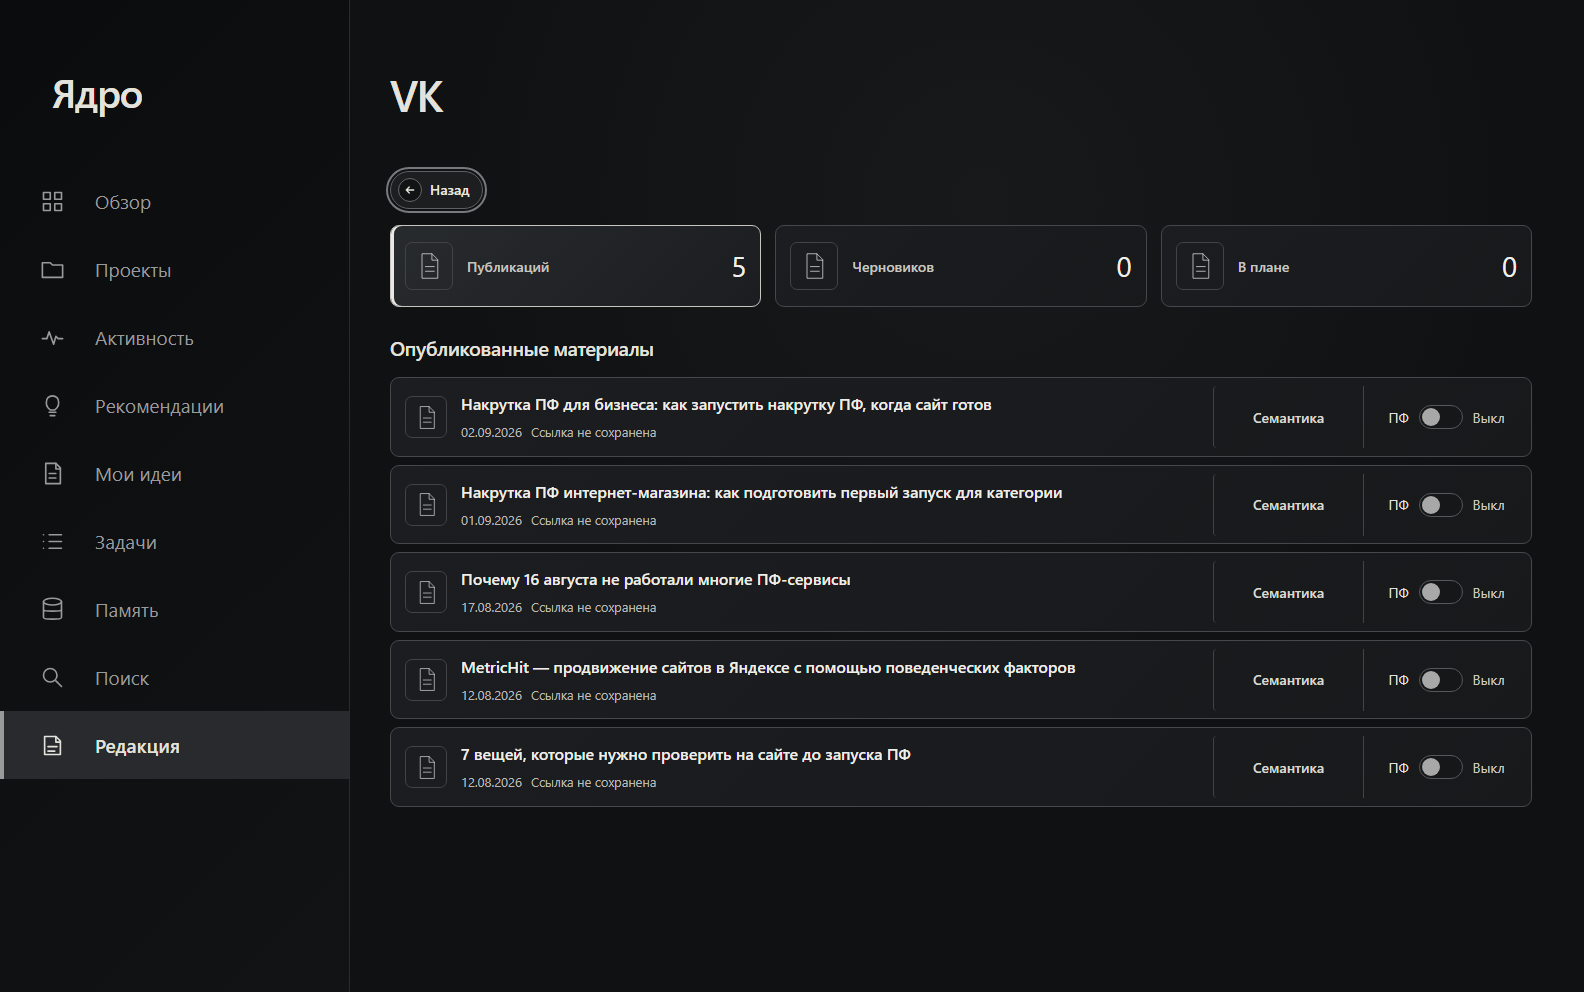
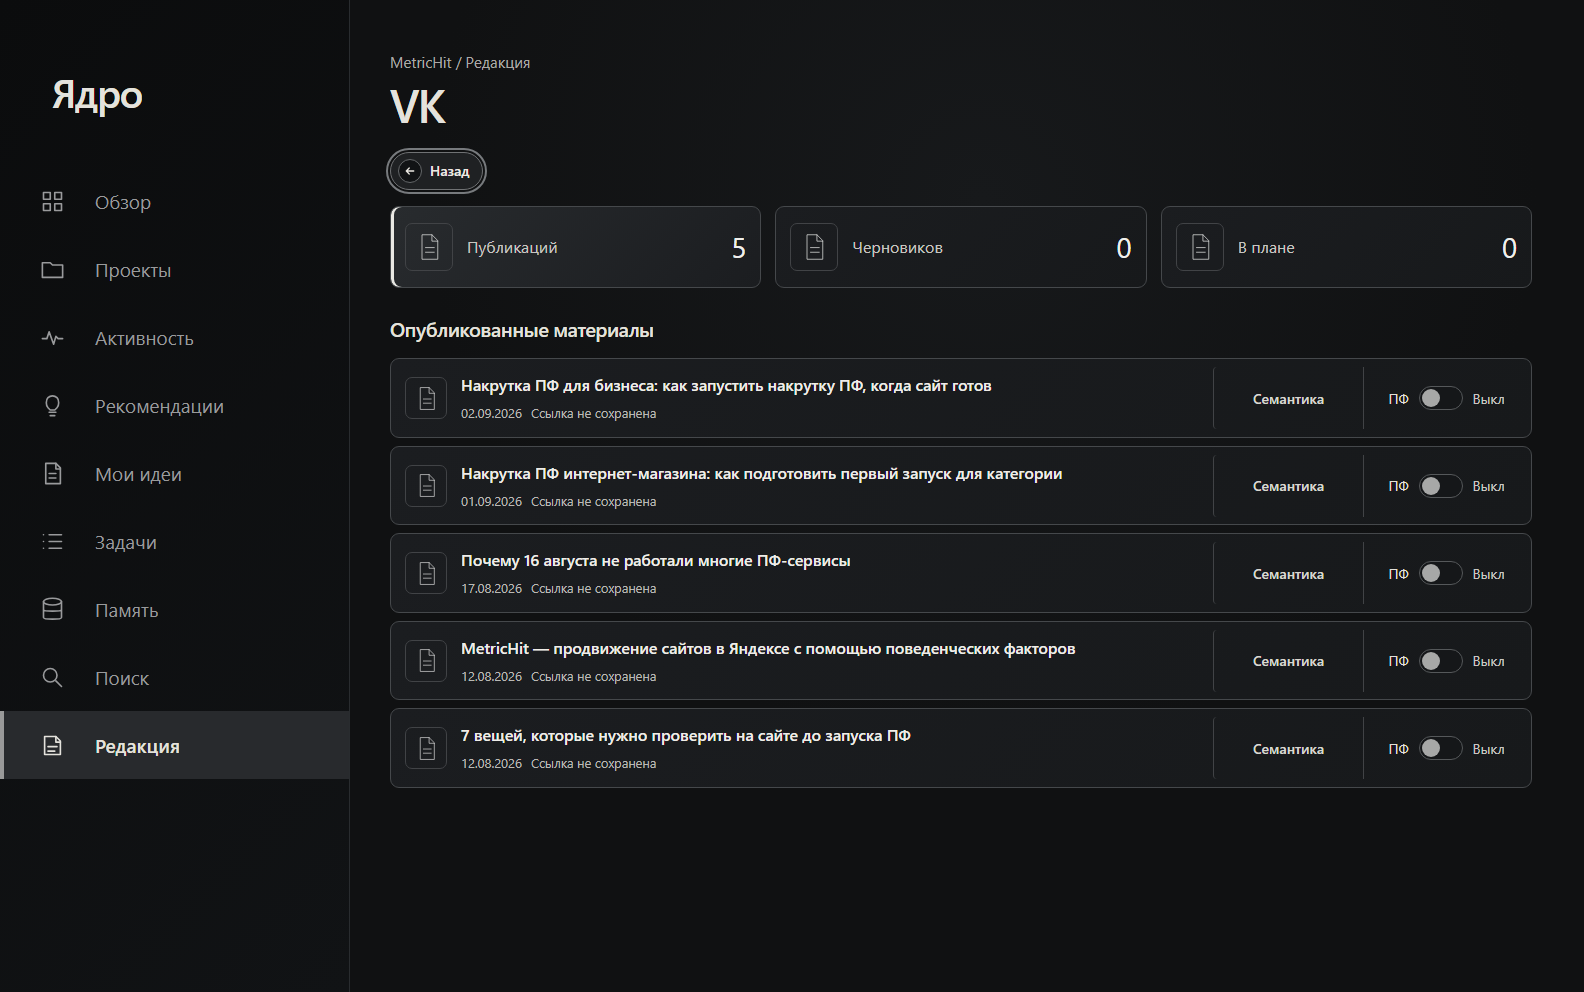
fix: align editorial detail headers

diff --git a/src/metrichit_os/operator_panel_assets/operator-panel.js b/src/metrichit_os/operator_panel_assets/operator-panel.js
@@ -69,7 +69,7 @@ setTimeout(load,0);
   const backButton=onClick=>{const button=document.createElement('button');button.type='button';button.className='editorial-back';button.dataset.testid='editorial-back';button.innerHTML=`${backIcon}<span>Назад</span>`;button.onclick=onClick;return button};
   const modal=trigger=>{const overlay=document.createElement('div');overlay.className='editorial-semantic-modal';overlay.dataset.testid='editorial-semantic-modal';overlay.setAttribute('role','dialog');overlay.setAttribute('aria-modal','true');overlay.setAttribute('aria-labelledby','editorial-semantic-title');const close=()=>{document.removeEventListener('keydown',escape);overlay.remove();document.body.style.overflow='';trigger.focus()};const escape=event=>{if(event.key==='Escape')close()};overlay.innerHTML='<div class="editorial-semantic-dialog"><button type="button" class="editorial-modal-close" aria-label="Закрыть" data-testid="editorial-semantic-close">×</button><h3 id="editorial-semantic-title">Семантика публикации</h3><p data-testid="editorial-semantic-empty">Семантика не сохранена</p><button type="button" class="editorial-copy-all" data-testid="editorial-copy-all" disabled>Скопировать всё</button></div>';overlay.querySelector('[data-testid="editorial-semantic-close"]').onclick=close;overlay.onclick=event=>{if(event.target===overlay)close()};document.addEventListener('keydown',escape);document.body.append(overlay);document.body.style.overflow='hidden';overlay.querySelector('[data-testid="editorial-semantic-close"]').focus()};
   const registry={Telegram:{counts:['17','1','8'],published:posts,drafts,planned},MAX:{counts:['0','0','0'],published:[],drafts:[],planned:[]},VK:{counts:['5','0','0'],published:[['Накрутка ПФ для бизнеса: как запустить накрутку ПФ, когда сайт готов','02.09.2026'],['Накрутка ПФ интернет-магазина: как подготовить первый запуск для категории','01.09.2026'],['Почему 16 августа не работали многие ПФ-сервисы','17.08.2026'],['MetricHit — продвижение сайтов в Яндексе с помощью поведенческих факторов','12.08.2026'],['7 вещей, которые нужно проверить на сайте до запуска ПФ','12.08.2026']],drafts:[],planned:[]},TenChat:{counts:['3','0','0'],published:[['Накрутка ПФ для интернет-магазина: как выбрать стартовую категорию','01.09.2026','https://tenchat.ru/media/6035722-nakrutka-pf-dlya-internetmagazina-kak-vybrat-startovuyu-kategoriyu'],['Накрутка ПФ: почему без неё коммерческий сайт теряет клиентов из Яндекса','Дата не сохранена','https://tenchat.ru/media/6028084-nakrutka-pf-pochemu-bez-neyo-kommercheskiy-sayt-teryayet-kliyentov-iz-yandeksa'],['Накрутка ПФ в Яндексе: как управлять продвижением по запросам, региону и бюджету','30.08.2026','https://tenchat.ru/media/6013324-nakrutka-pf-v-yandekse-kak-upravlyat-prodvizheniyem-po-zaprosam-regionu-i-byudzhetu']],drafts:[],planned:[]},Sostav:{counts:['2','0','0'],published:[['Накрутка ПФ','29.08.2026','https://www.sostav.ru/blogs/293151/104675'],['SEO вывело сайт в ТОП, а продажи не выросли: где ломается воронка','12.08.2026','https://www.sostav.ru/blogs/293151/101025']],drafts:[],planned:[]},Oborot:{counts:['3','0','0'],published:[['Накрутка ПФ для бизнеса: как подготовить сайт к запуску','02.09.2026'],['Накрутка ПФ для интернет-магазина: как выбрать запросы, категории и дневной лимит в Яндексе','01.09.2026','https://oborot.ru/blogs/nakrutka-pf-dlya-internet-magazina-kak-vybrat-zaprosy-kategorii-i-dnevnoj-limit-v-yandekse-i277848.html'],['Накрутка ПФ: как бизнесу управлять поисковым продвижением и бюджетом','29.08.2026','https://oborot.ru/blogs/nakrutka-pf-i277755.html']],drafts:[],planned:[]}};
-  const renderPlatform=name=>{const data=registry[name];if(!data)return;document.body.dataset.editorialState=name.toLowerCase();title.textContent=name;description.hidden=true;let active='published';const renderList=()=>{const isPublished=active==='published',items=data[active];const section=document.createElement('section');section.className='editorial-posts';const heading=document.createElement('h3');heading.textContent=isPublished?'Опубликованные материалы':active==='drafts'?'Черновики':'В плане';section.append(heading);const list=document.createElement('div');list.className='editorial-post-list';if(!items.length){const empty=document.createElement('p');empty.className='overview-empty';empty.textContent=isPublished?'Публикаций пока нет.':active==='drafts'?'Черновиков пока нет.':'Материалов в плане пока нет.';section.append(empty);return section}items.forEach(([post,date,fullUrl],index)=>{const row=document.createElement('article');row.className=`editorial-post-row${isPublished?'':' editorial-post-row-pending'}`;row.dataset.testid=`editorial-post-${isPublished?index:`${active}-${index}`}`;const identity=document.createElement('div');identity.className='editorial-post-identity';const urlParts=fullUrl?`<a class="editorial-short-url" data-testid="editorial-short-url-${index}" href="${fullUrl}" target="_blank" rel="noopener noreferrer">${fullUrl.replace('https://','')}</a><button type="button" class="editorial-url-toggle" data-testid="editorial-url-${index}" aria-expanded="false" aria-controls="editorial-full-url-${index}" aria-label="Показать полный URL">${chevronIcon}</button><button type="button" class="editorial-url-copy" data-testid="editorial-url-copy-${index}" aria-label="Скопировать полный URL">${copyIcon}</button><span class="editorial-url-status" data-testid="editorial-url-status-${index}" aria-live="polite"></span>`:isPublished?'<span class="editorial-url-missing" data-testid="editorial-url-missing">Ссылка не сохранена</span>':'';identity.innerHTML=`<span class="editorial-post-icon">${documentIcon}</span><span><strong>${post}</strong><span class="editorial-post-meta">${date}${urlParts}</span></span>`;let full;if(fullUrl){full=document.createElement('a');full.id=`editorial-full-url-${index}`;full.className='editorial-full-url hidden';full.dataset.testid=`editorial-full-url-${index}`;full.href=fullUrl;full.target='_blank';full.rel='noopener noreferrer';full.textContent=fullUrl;const url=identity.querySelector('.editorial-url-toggle');url.onclick=()=>{const hidden=full.classList.toggle('hidden');url.setAttribute('aria-expanded',String(!hidden));url.classList.toggle('is-expanded',!hidden);url.setAttribute('aria-label',hidden?'Показать полный URL':'Скрыть полный URL')};identity.querySelector('.editorial-url-copy').onclick=async()=>{const status=identity.querySelector('.editorial-url-status');try{await navigator.clipboard.writeText(fullUrl);status.textContent='Скопировано'}catch(error){status.textContent='Не удалось скопировать'}}}const semanticButton=document.createElement('button');semanticButton.type='button';semanticButton.className='editorial-semantic-trigger';semanticButton.dataset.testid=`editorial-semantic-${active}-${index}`;semanticButton.textContent='Семантика';semanticButton.onclick=()=>modal(semanticButton);row.append(identity,semanticButton);if(isPublished){const pf=document.createElement('label');pf.className='editorial-pf';pf.textContent='ПФ';const toggle=document.createElement('input');toggle.type='checkbox';toggle.checked=false;toggle.dataset.testid=`editorial-pf-${index}`;toggle.setAttribute('role','switch');toggle.setAttribute('aria-label',`ПФ для публикации ${post}`);const state=document.createElement('span');state.className='editorial-pf-state';state.textContent='Выкл';toggle.onchange=()=>{state.textContent=toggle.checked?'Вкл':'Выкл'};pf.append(toggle,state);row.append(pf)}if(full)row.append(full);list.append(row)});section.append(list);return section};const crumb=document.createElement('p');crumb.className='editorial-breadcrumb';crumb.textContent='MetricHit / Редакция';const stats=document.createElement('div');stats.className='editorial-stat-grid';const content=document.createElement('div');const setActive=next=>{active=next;for(const button of stats.querySelectorAll('button')){const selected=button.dataset.editorialFilter===active;button.classList.toggle('active',selected);button.setAttribute('aria-pressed',String(selected))}content.replaceChildren(renderList())};[['published','Публикаций'],['drafts','Черновиков'],['planned','В плане']].forEach(([key,label],index)=>{const card=document.createElement('button');card.type='button';card.className='editorial-stat-card';card.dataset.editorialFilter=key;card.dataset.testid=`editorial-filter-${key}`;card.innerHTML=`<span class="editorial-stat-icon">${documentIcon}</span><span class="editorial-stat-label">${label}</span><b class="editorial-stat-value">${data.counts[index]}</b>`;card.onclick=()=>setActive(key);stats.append(card)});screen.replaceChildren(backButton(()=>window.metricHitEditorialBackToPlatforms()),crumb,stats,content);setActive(active)};
+  const renderPlatform=name=>{const data=registry[name];if(!data)return;document.body.dataset.editorialState='telegram';title.textContent=name;description.hidden=true;let active='published';const renderList=()=>{const isPublished=active==='published',items=data[active];const section=document.createElement('section');section.className='editorial-posts';const heading=document.createElement('h3');heading.textContent=isPublished?'Опубликованные материалы':active==='drafts'?'Черновики':'В плане';section.append(heading);const list=document.createElement('div');list.className='editorial-post-list';if(!items.length){const empty=document.createElement('p');empty.className='overview-empty';empty.textContent=isPublished?'Публикаций пока нет.':active==='drafts'?'Черновиков пока нет.':'Материалов в плане пока нет.';section.append(empty);return section}items.forEach(([post,date,fullUrl],index)=>{const row=document.createElement('article');row.className=`editorial-post-row${isPublished?'':' editorial-post-row-pending'}`;row.dataset.testid=`editorial-post-${isPublished?index:`${active}-${index}`}`;const identity=document.createElement('div');identity.className='editorial-post-identity';const urlParts=fullUrl?`<a class="editorial-short-url" data-testid="editorial-short-url-${index}" href="${fullUrl}" target="_blank" rel="noopener noreferrer">${fullUrl.replace('https://','')}</a><button type="button" class="editorial-url-toggle" data-testid="editorial-url-${index}" aria-expanded="false" aria-controls="editorial-full-url-${index}" aria-label="Показать полный URL">${chevronIcon}</button><button type="button" class="editorial-url-copy" data-testid="editorial-url-copy-${index}" aria-label="Скопировать полный URL">${copyIcon}</button><span class="editorial-url-status" data-testid="editorial-url-status-${index}" aria-live="polite"></span>`:isPublished?'<span class="editorial-url-missing" data-testid="editorial-url-missing">Ссылка не сохранена</span>':'';identity.innerHTML=`<span class="editorial-post-icon">${documentIcon}</span><span><strong>${post}</strong><span class="editorial-post-meta">${date}${urlParts}</span></span>`;let full;if(fullUrl){full=document.createElement('a');full.id=`editorial-full-url-${index}`;full.className='editorial-full-url hidden';full.dataset.testid=`editorial-full-url-${index}`;full.href=fullUrl;full.target='_blank';full.rel='noopener noreferrer';full.textContent=fullUrl;const url=identity.querySelector('.editorial-url-toggle');url.onclick=()=>{const hidden=full.classList.toggle('hidden');url.setAttribute('aria-expanded',String(!hidden));url.classList.toggle('is-expanded',!hidden);url.setAttribute('aria-label',hidden?'Показать полный URL':'Скрыть полный URL')};identity.querySelector('.editorial-url-copy').onclick=async()=>{const status=identity.querySelector('.editorial-url-status');try{await navigator.clipboard.writeText(fullUrl);status.textContent='Скопировано'}catch(error){status.textContent='Не удалось скопировать'}}}const semanticButton=document.createElement('button');semanticButton.type='button';semanticButton.className='editorial-semantic-trigger';semanticButton.dataset.testid=`editorial-semantic-${active}-${index}`;semanticButton.textContent='Семантика';semanticButton.onclick=()=>modal(semanticButton);row.append(identity,semanticButton);if(isPublished){const pf=document.createElement('label');pf.className='editorial-pf';pf.textContent='ПФ';const toggle=document.createElement('input');toggle.type='checkbox';toggle.checked=false;toggle.dataset.testid=`editorial-pf-${index}`;toggle.setAttribute('role','switch');toggle.setAttribute('aria-label',`ПФ для публикации ${post}`);const state=document.createElement('span');state.className='editorial-pf-state';state.textContent='Выкл';toggle.onchange=()=>{state.textContent=toggle.checked?'Вкл':'Выкл'};pf.append(toggle,state);row.append(pf)}if(full)row.append(full);list.append(row)});section.append(list);return section};const crumb=document.createElement('p');crumb.className='editorial-breadcrumb';crumb.textContent='MetricHit / Редакция';const stats=document.createElement('div');stats.className='editorial-stat-grid';const content=document.createElement('div');const setActive=next=>{active=next;for(const button of stats.querySelectorAll('button')){const selected=button.dataset.editorialFilter===active;button.classList.toggle('active',selected);button.setAttribute('aria-pressed',String(selected))}content.replaceChildren(renderList())};[['published','Публикаций'],['drafts','Черновиков'],['planned','В плане']].forEach(([key,label],index)=>{const card=document.createElement('button');card.type='button';card.className='editorial-stat-card';card.dataset.editorialFilter=key;card.dataset.testid=`editorial-filter-${key}`;card.innerHTML=`<span class="editorial-stat-icon">${documentIcon}</span><span class="editorial-stat-label">${label}</span><b class="editorial-stat-value">${data.counts[index]}</b>`;card.onclick=()=>setActive(key);stats.append(card)});screen.replaceChildren(backButton(()=>window.metricHitEditorialBackToPlatforms()),crumb,stats,content);setActive(active)};
   window.metricHitEditorialRegistry=registry;
   window.metricHitRenderEditorialPlatform=renderPlatform;
   window.metricHitRenderEditorialPlatformExact=renderPlatform;

diff --git a/tests_python/test_operator_panel_e2e.py b/tests_python/test_operator_panel_e2e.py
@@ -890,7 +890,6 @@ def test_editorial_matches_project_and_platform_references(page: Page, panel: st
     platform_focus = platform_back.evaluate("node => getComputedStyle(node).outlineStyle")
     assert platform_focus != "none"
     rows.first.hover()
-    page.screenshot(path="work/editorial-platforms-verified.png", full_page=True)
     page.keyboard.press("Enter")
     expect(page.get_by_test_id("editorial-project-list")).to_be_visible()
     page.get_by_test_id("editorial-project-0").click()
@@ -909,6 +908,12 @@ def test_editorial_matches_project_and_platform_references(page: Page, panel: st
     assert abs(platform_header["height"] - telegram_header["height"]) <= 2
     assert abs(platform_back_box["y"] - telegram_back_box["y"]) <= 2
     assert abs(platform_first_content["y"] - telegram_first_content["y"]) <= 2
+    telegram_geometry = {
+        "header_height": telegram_header["height"],
+        "back_y": telegram_back_box["y"],
+        "stat_grid_y": page.locator(".editorial-stat-grid").bounding_box()["y"],
+    }
+    assert page.locator(".page-header h2").evaluate("node => getComputedStyle(node, '::before').content") == '"MetricHit / Редакция"'
     telegram_back.focus()
     telegram_focus = telegram_back.evaluate("node => getComputedStyle(node).outlineStyle")
     assert telegram_focus != "none"
@@ -1036,6 +1041,14 @@ def test_editorial_matches_project_and_platform_references(page: Page, panel: st
         expect(detail_back.locator("svg")).to_have_count(1)
         expect(page.locator(".editorial-stat-card")).to_have_count(3)
         expect(page.locator(".editorial-post-row")).to_have_count(count)
+        detail_header = page.locator(".page-header").bounding_box()
+        detail_back_box = detail_back.bounding_box()
+        detail_stat_grid = page.locator(".editorial-stat-grid").bounding_box()
+        assert detail_header and detail_back_box and detail_stat_grid
+        assert abs(detail_header["height"] - telegram_geometry["header_height"]) <= 2
+        assert abs(detail_back_box["y"] - telegram_geometry["back_y"]) <= 2
+        assert abs(detail_stat_grid["y"] - telegram_geometry["stat_grid_y"]) <= 2
+        assert page.locator(".page-header h2").evaluate("node => getComputedStyle(node, '::before').content") == '"MetricHit / Редакция"'
         if index == 1:
             page.screenshot(path="work/editorial-max-detail-verified.png", full_page=True)
         elif index == 2:
